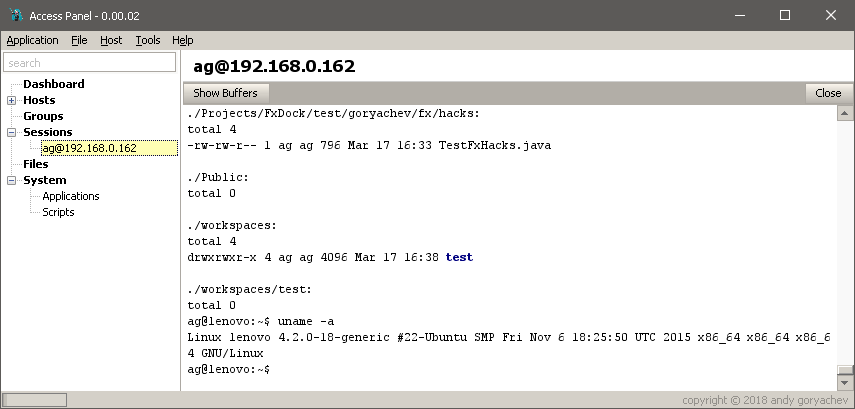
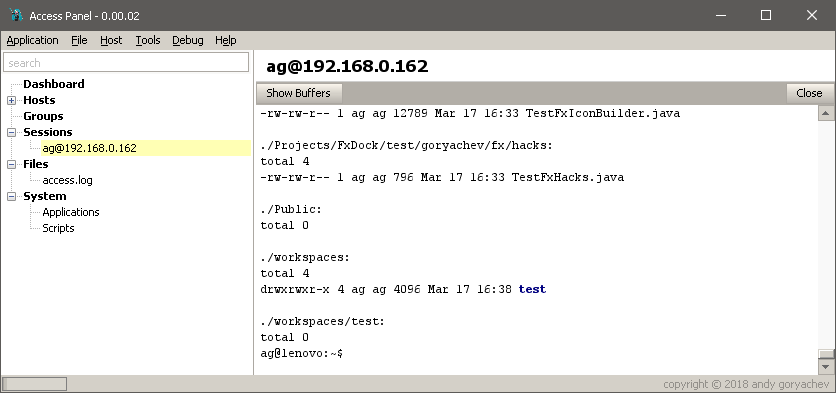
log viewer

diff --git a/doc/AccessPanel/AccessPanel.md b/doc/AccessPanel/AccessPanel.md
@@ -2,6 +2,7 @@
 
 ![alt text](screenshot.png)
 
+
 ## Features
 
 * encrypted storage of credentials, keys, and local files
@@ -9,7 +10,19 @@
 * powerful log viewer
 * file manager
 * VNC viewer
-* Linux management GUI similar to CPanel, Webmin
+* GUI for Linux components (iptables, nginx, apache, ...)
 * multi-server configuration tools à la Ansible
 * scripting notebook
 * GUI for common tasks like let's encrypt, zip and download logs, ...
+
+
+## Log Viewer
+
+![alt text](log-viewer.png)
+
+* displays local as well as remote files
+* tailing
+* search, regex
+* date queries
+* time line
+* extract and plot variables
